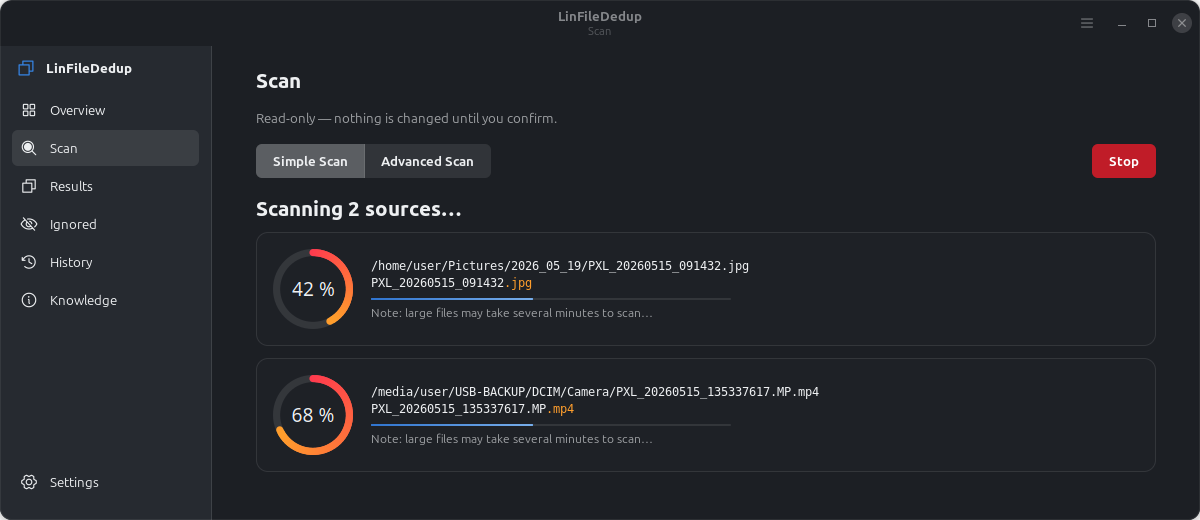
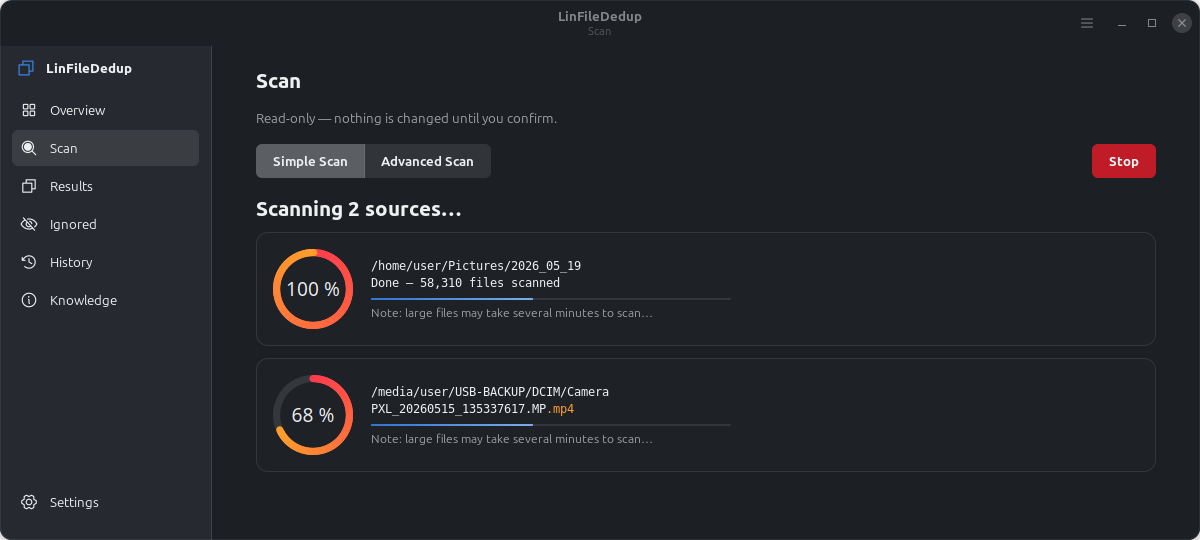
Docs: document the fingerprint cache logic, multi-source, History; show folder in ring path
- Scan rings: the path line now shows the FOLDER only (the file name, with
  its orange extension, is already on the line below the path).
- FEATURES.md: new §4b "Scan fingerprint cache" documenting the comparison
  key (path → {dev,ino,size,mtime,sha256}) and the hit/miss logic —
  no history ⇒ hash + record, changed ⇒ re-hash + update, unchanged ⇒ reuse
  — plus invalidation and safety; §5.7 multiple sources; §10 per-source ring
  list; §14 Scan History; Settings toggles; primary-source keeper note; test
  count. Refreshed the ring screenshot and the scan-page / scan-ring-list
  mockups to show the folder path.
- Test: new/changed files are hashed and the cache is updated; unchanged are
  reused (tests/core/test_hashcache.py). 71 passing.

diff --git a/docs/mockups/scan-page.html b/docs/mockups/scan-page.html
@@ -129,7 +129,7 @@
       <div class="row done">
         <div class="ring"><svg width="84" height="84" viewBox="0 0 84 84"><circle cx="42" cy="42" r="35" fill="none" stroke="rgba(255,255,255,.1)" stroke-width="7"/><circle cx="42" cy="42" r="35" fill="none" stroke="#34cd88" stroke-width="7" stroke-linecap="round" stroke-dasharray="220" stroke-dashoffset="0"/></svg><div class="pct">100<small>%</small></div></div>
         <div class="col">
-          <div class="path">/home/user/Pictures/2026_05_19/PXL_20260515_091432.jpg</div>
+          <div class="path">/home/user/Pictures/2026_05_19</div>
           <div class="name">Done — 58,310 files scanned</div>
           <div class="bar full"><i style="background:#2bbd78"></i></div>
           <div class="note">/home/user · complete</div>
@@ -139,7 +139,7 @@
       <div class="row">
         <div class="ring"><svg width="84" height="84" viewBox="0 0 84 84"><circle cx="42" cy="42" r="35" fill="none" stroke="rgba(255,255,255,.1)" stroke-width="7"/><circle cx="42" cy="42" r="35" fill="none" stroke="url(#grad)" stroke-width="7" stroke-linecap="round" stroke-dasharray="220" stroke-dashoffset="70"/></svg><div class="pct">68<small>%</small></div></div>
         <div class="col">
-          <div class="path">/media/user/USB-BACKUP/DCIM/Camera/PXL_20260515_135337617.MP.mp4</div>
+          <div class="path">/media/user/USB-BACKUP/DCIM/Camera</div>
           <div class="name">PXL_20260515_135337617.MP<span class="x">.mp4</span></div>
           <div class="bar slow"><i></i></div>
           <div class="note">Note: large files may take several minutes to scan…</div>
@@ -149,7 +149,7 @@
       <div class="row">
         <div class="ring"><svg width="84" height="84" viewBox="0 0 84 84"><circle cx="42" cy="42" r="35" fill="none" stroke="rgba(255,255,255,.1)" stroke-width="7"/><circle cx="42" cy="42" r="35" fill="none" stroke="url(#grad)" stroke-width="7" stroke-linecap="round" stroke-dasharray="220" stroke-dashoffset="180"/></svg><div class="pct">18<small>%</small></div></div>
         <div class="col">
-          <div class="path">/mnt/photos-external/2024/thumbs/IMG_0412.jpg</div>
+          <div class="path">/mnt/photos-external/2024/thumbs</div>
           <div class="name">IMG_0412<span class="x">.jpg</span></div>
           <div class="bar fast"><i></i></div>
           <div class="note">Note: large files may take several minutes to scan…</div>

diff --git a/docs/mockups/scan-ring-list.html b/docs/mockups/scan-ring-list.html
@@ -70,7 +70,7 @@
         <div class="pct">100<small>%</small></div>
       </div>
       <div class="col">
-        <div class="path">/home/user/Pictures/2026_05_19/PXL_20260515_091432.jpg</div>
+        <div class="path">/home/user/Pictures/2026_05_19</div>
         <div class="name">Done — 58,310 files scanned</div>
         <div class="bar"><i style="background:#2bbd78;width:100%;animation:none;position:static"></i></div>
         <div class="state">/home/user · complete</div>
@@ -87,7 +87,7 @@
         <div class="pct">68<small>%</small></div>
       </div>
       <div class="col">
-        <div class="path">/media/user/USB-BACKUP/DCIM/Camera/PXL_20260515_135337617.MP.mp4</div>
+        <div class="path">/media/user/USB-BACKUP/DCIM/Camera</div>
         <div class="name">PXL_20260515_135337617.MP.mp4</div>
         <div class="bar slow"><i></i></div>
         <div class="note">Note: large files may take several minutes to scan…</div>
@@ -104,7 +104,7 @@
         <div class="pct">18<small>%</small></div>
       </div>
       <div class="col">
-        <div class="path">/mnt/photos-external/2024/thumbs/IMG_0412.jpg</div>
+        <div class="path">/mnt/photos-external/2024/thumbs</div>
         <div class="name">IMG_0412.jpg</div>
         <div class="bar fast"><i></i></div>
         <div class="note">Note: large files may take several minutes to scan…</div>

diff --git a/tests/core/test_hashcache.py b/tests/core/test_hashcache.py
@@ -54,3 +54,36 @@ def test_second_scan_reuses_cache_and_skips_hashing(tmp_path, monkeypatch):
     groups = scanner.find_exact_groups(list(scanner.walk(opts)), opts, lambda e: None, cache=cache)
     assert calls["n"] == 0                        # reused the cache entirely
     assert len(groups) == 1 and groups[0].count == 2
+
+
+def test_new_files_hashed_and_changed_files_update_the_cache(tmp_path, monkeypatch):
+    import os
+    data = b"shared bytes " * 400
+    a = tmp_path / "a.dat"; a.write_bytes(data)
+    b = tmp_path / "b.dat"; b.write_bytes(data)          # a + b identical -> a candidate pair
+    opts = ScanOptions(root=str(tmp_path), find_images=False, min_size=1)
+    cache = HashCache(tmp_path / "hc.json")
+
+    n = {"h": 0}
+    real = hashers.full_hash
+    def spy(p):
+        n["h"] += 1
+        return real(p)
+    monkeypatch.setattr(hashers, "full_hash", spy)
+
+    # pass 1 — a, b have NO history: both are hashed and recorded
+    scanner.find_exact_groups(scanner.walk(opts), opts, lambda e: None, cache=cache)
+    assert n["h"] == 2 and len(cache) == 2
+
+    # b's mtime changes (edited), and c is a brand-new identical file
+    os.utime(b, (1_000_000_000, 1_000_000_000))
+    (tmp_path / "c.dat").write_bytes(data)
+    n["h"] = 0
+    scanner.find_exact_groups(scanner.walk(opts), opts, lambda e: None, cache=cache)
+    assert n["h"] == 2            # b (changed) + c (new) re-hashed; a (unchanged) reused
+    assert len(cache) == 3        # history updated: b's entry refreshed, c added
+
+    # pass 3 — everything is now unchanged: nothing is hashed
+    n["h"] = 0
+    scanner.find_exact_groups(scanner.walk(opts), opts, lambda e: None, cache=cache)
+    assert n["h"] == 0

diff --git a/src/linfilededuplication/ui/pages/scan.py b/src/linfilededuplication/ui/pages/scan.py
@@ -525,8 +525,8 @@ class ScanPage(BasePage):
         ring.set_progress(fraction, phase)
         bar.pulse()                         # a file event: quick motion for small files
         if detail:
-            path.set_text(detail)
             base = os.path.basename(detail)
+            path.set_text(os.path.dirname(detail) or detail)   # folder only; file name is shown below
             if base:
                 name.set_markup(self._name_markup(base))
             elif phase != "walk":

diff --git a/docs/FEATURES.md b/docs/FEATURES.md
@@ -36,20 +36,25 @@ confirmation; removals go to Trash by default (recoverable); protected paths are
 
 Cheap-to-expensive, so most files are rejected before any hashing:
 
-1. **Walk** (`walk()`) — recursive `os.scandir` honouring hidden/min-size/symlink options,
-   **scan exclusions**, the **file-type filter**, and the **ignore list**. Captures each file's
-   `(size, mtime, dev, ino)`. Streams the current folder/file back as throttled `Progress`
-   events (~15/sec) for the live scan caption.
+1. **Walk** (`walk()`) — recursive `os.scandir` over **every source** in `opts.all_roots()`,
+   honouring hidden/min-size/symlink options, **scan exclusions**, the **file-type filter**, and
+   the **ignore list**. Captures each file's `(size, mtime, dev, ino)` and tags its **`source`**
+   (the root it was found under). Returns one combined list so duplicates are found *across*
+   sources. Streams the current folder/file (with its source) as throttled `Progress` events
+   (~15/sec) for the live caption and the per-source rings.
 2. **Size pre-filter** — only sizes shared by ≥2 files continue.
 3. **Progressive prefix hash** (`hashers.prefix_hash`) — cheaply splits same-size buckets
    (xxHash when available, else BLAKE2b).
-4. **Full hash** (`hashers.full_hash`, SHA-256) — confirms identical content.
+4. **Full hash** (`hashers.full_hash`, SHA-256) — confirms identical content. Consults the
+   **hash cache** first (§4b): an unchanged file reuses its stored digest instead of being read.
 5. **Byte-for-byte verify** (optional, on by default) — rules out hash coincidence.
 6. **Inode collapse** — files sharing `(dev, ino)` are one physical file (already hard-linked),
    collapsed so they are never reported and never "reappear" on the next scan.
 
-A **DuplicateGroup** holds *any number* of identical files (2, 3, 50 …), not just pairs. One is
-the **keeper** (by policy); the rest are removal candidates.
+A **DuplicateGroup** holds *any number* of identical files (2, 3, 50 …), not just pairs, and its
+members may live on **different sources**. One is the **keeper** (by policy); the rest are removal
+candidates. **Identity is content, not name:** files are judged equal by size + SHA-256 (+ byte
+verify); the filename only influences *which* copy is kept (§4).
 
 **Memory:** `FileEntry` is `__slots__`-based (no per-instance `__dict__`) because the walk holds
 one per file — millions on a home tree (~265 bytes/entry). Validated: a full `/home` scan with
@@ -101,6 +106,65 @@ decides what to keep"** card on Results:
 **Backup detection** (`core/backup_detect.py`) flags probable backups from name/date/sibling
 signals and marks each group member **Newest** or **Older**.
 
+When scanning **multiple sources** with *Keep the primary source across drives* enabled (default),
+the keeper is biased to the **first-listed (primary) source**, so the copy removed is the one on
+the backup/removable drive. Disable it in Settings to use only the policy above.
+
+---
+
+## 4b. Scan fingerprint cache — the comparison history (`core/hashcache.py`)
+
+So that a **re-scan**, or a scan that **compares against a newly-added source**, does not re-read
+files it has already fingerprinted, LinFileDedup keeps a persistent **hash cache** (a scan
+history of file fingerprints). It is enabled by default (Settings → Scanning → *Reuse hashes for
+unchanged files*).
+
+### What is recorded, and the comparison key
+
+A tolerant JSON store at `~/.local/state/com.mensuramedia.linfilededuplication/hashcache.json`,
+mapping each file's **full path** to its fingerprint and digest:
+
+```
+<absolute path>  →  { dev, ino, size, mtime, sha256 }
+```
+
+- The **key is the full path** (which includes the source root, so the same relative file on two
+  sources is tracked separately).
+- The **fingerprint** is `dev` (filesystem id), `ino` (inode), `size` (bytes) and `mtime`
+  (modification time) — the fields that cheaply reveal whether a file changed.
+- The **`sha256`** is the content digest that the dedup comparison actually uses. (Filename is
+  *not* part of identity — identity is content; the cache simply avoids recomputing that content
+  hash.)
+
+### The "is another scan/hash necessary?" logic
+
+For each file that reaches the full-hash step, `HashCache.get(file)` decides:
+
+- **No history (new file).** The path is not in the cache → **miss** → the file is **hashed now**
+  and its fingerprint + digest are **recorded** (`put`). New files and newly-added sources are
+  always scanned.
+- **Changed file.** The path is cached, but `size`/`mtime`/`dev`/`ino` **differ** from the stored
+  fingerprint → **miss** → the file is **re-hashed** and its cache entry is **updated** with the
+  new fingerprint + digest.
+- **Unchanged file.** The path is cached and `size`/`mtime`/`dev`/`ino` **all match** → **hit** →
+  the stored `sha256` is **reused** and the file is **not read again**.
+
+So the cache self-updates on every scan: unchanged files are skipped, while **new and changed
+files discovered are hashed and written back**, keeping the history current for the next
+comparison. (Validated by `tests/core/test_hashcache.py`: a second scan of unchanged files does
+zero re-hashing; a scan after editing one file and adding another re-hashes exactly those two.)
+
+### Maintenance & safety
+
+- **After a dedup operation**, the removed/relinked files are dropped from the cache
+  (`HashCache.remove`, called from the Results actions) so the history stays truthful.
+- The file is **capped** (most-recent entries kept) and only tracks files that reach the full-hash
+  step (collision candidates), so it stays small.
+- **Safety:** the cache only ever avoids recomputing a hash that would have been identical — it
+  never changes which files are judged equal, and the **byte-for-byte verification** still runs on
+  final groups. The one heuristic is `mtime`: a tool that edits a file while preserving its mtime
+  is the single case the fast path would miss, which the byte-verify still catches.
+
 ---
 
 ## 5. Scan scope controls (Scan page)
@@ -147,6 +211,14 @@ Both are managed on the **Ignored page** (§13), where any entry can be resumed.
 Per-group **Ignore Folder** button (+ InfoHint): ignores the folders the group's files live in,
 persists them to `settings.ignored_folders`, and greys the matching rows. Managed on the Ignored
 page (§13).
+
+### 5.7 Multiple sources (`ScanOptions.roots`)
+The Scan page's **Sources to scan** list replaces the single folder: add folders with **Add
+source…** (chooser) or drives with **Add drive…** (detected mountpoints via `Gio.VolumeMonitor`),
+each shown with its type/size and a **Remove**. All sources are scanned as **one pool**, so a copy
+on a backup drive and the original on your disk form one group. The selection persists in
+`settings.roots`; `all_roots()` is the effective list (`roots` wins, else the legacy `root`).
+Cross-filesystem **hard-link is impossible**, so those groups route to Trash automatically.
 
 ---
 
@@ -262,14 +334,22 @@ the UI decides how to render, keeping `core/` GTK-free.
 
 ## 10. Live scan feedback
 
-- **Percentage ring loader** (`ui/widgets/ring_loader.py`) — a Cairo circular loader (dark track,
-  red→orange gradient arc, centred **"NN %"**) shown below the Results title while scanning. The
-  percentage is the **true overall ratio of files scanned**, not a cosmetic animation: the scanner
-  reports progress over *all* files — a file with a unique size needs no hashing and counts as done
-  immediately, each hashed candidate and each perceptually-hashed image advances the count, and
-  total work = total files + the image pass. The value eases between updates and is monotonic
-  (never exceeds 100%). Because the walk discovers files (total unknown until it finishes), the
-  walk phase shows a small indeterminate creep (≤ 8%) until real per-file work begins.
+- **Per-source ring list** (Scan page) — the app **stays on Scan during a scan** and shows **one
+  row per source**: a **ring** on the left (slightly reduced, its **percentage centred** on the
+  glyphs) showing that source's **true files-scanned ratio**; on the right the **folder** of the
+  current file, then the **file name** on its own line (same monospace font/size as the folder
+  path, **extension in orange** — not repeated in the path above it), a **2px blue-gradient
+  half-width activity bar** that pulses — *fast* for small files,
+  a *slow crawl* on a large file (and a steady fallback pulse), so a multi-minute hash never looks
+  hung — and a **"Note: large files may take several minutes to scan…"** line. All rings **stay
+  visible until the whole scan completes, then fade together**, and the app switches to Results.
+- **Percentage ring loader** (`ui/widgets/ring_loader.py`) — the same Cairo circular loader (dark
+  track, red→orange gradient arc, centred **"NN %"**) also backs the **overall** ring on Results.
+  The percentage is the **true overall ratio of files scanned**, not a cosmetic animation: the
+  scanner reports progress over *all* files — a file with a unique size needs no hashing and counts
+  as done immediately, each hashed candidate and each perceptually-hashed image advances the count,
+  and total work = total files + the image pass. Monotonic; the walk phase shows a small
+  indeterminate creep (≤ 8%) until real per-file work begins.
 - **Reveal on completion** — groups found during the scan are **buffered**, not shown live. When the
   scan finishes the ring fills to **100%**, holds, and **fades out**, and only then are the result
   cards, savings panel, formula card and action bar built and revealed
@@ -284,8 +364,11 @@ the UI decides how to render, keeping `core/` GTK-free.
 
 - **Theme** (`ui/theme_loader.py`) — injects the approved mockup palette (content darker than
   sidebar, lighter top bar) as `@define-color` overrides for light and dark, following the system.
-- **Settings** — tier, folder, image toggle, hidden, min size, hamming, default action, backups,
-  exclusions, **file types**, **ignored paths**.
+- **Settings** — theme; image-similarity threshold; a **Scanning** group with *Reuse hashes for
+  unchanged files* (`use_hash_cache`, §4b) and *Keep the primary source across drives*
+  (`keep_primary_source`, §4); default action; dry-run; backups; and the scan-scope exclusion
+  presets. Persisted as tolerant JSON by `config/settings.py` (also stores `roots`, `file_types`,
+  `custom_extensions`, `ignored_paths`, `ignored_folders`).
 - **Logging** (`logsetup.py`) — rotating file log at
   `~/.local/state/com.mensuramedia.linfilededuplication/linfilededuplication.log`: startup banner,
   lifecycle, scan start/finish, destructive-action outcomes, plus GLib/GTK capture and a Python
@@ -317,13 +400,31 @@ A dedicated sidebar page (eye-slash icon) that tracks everything the user chose 
 
 ---
 
-## 14. Tests (`tests/`)
+## 14. Scan History (`config/history.py`, `ui/pages/history.py`)
 
-Pure-core tests run anywhere; UI smoke needs a display. Current suite: **56 passing**. Coverage
-includes purity, hashers, scanner (incl. inode-collapse, walk streaming, file-type & ignore
-filters, `occupied_bytes`), policy, backup detection, exclusions, chunking, metadata, glossary,
-preview (incl. video classification), file-type categories, perceptual precision/recall + the
-smooth-image dual-hash guard, `FileEntry` slots, and the full hard-link action matrix.
+Every **confirmed removal** (Move to Trash / Delete All Duplicates / Hard-link), success or
+failure, is recorded as a `HistoryEntry` `{ when, sources, action, ok, error, before_bytes,
+freed_bytes, files_removed, groups }` in a tolerant JSON store at
+`~/.local/state/com.mensuramedia.linfilededuplication/history.json` (newest-first, capped). The
+**History page** shows the **last operation prominently** — date, the **sources** scanned, a
+**before/after bar pair** (reusing `SpaceChart`), a **"You saved N GB"** headline, and a
+success/failure chip — with **earlier operations** listed below. `before_bytes` is the scan's
+`Finished.occupied_bytes`; `freed_bytes` is what the action actually reclaimed;
+`after_bytes = before − freed`.
+
+---
+
+## 15. Tests (`tests/`)
+
+Pure-core tests run anywhere; UI smoke needs a display. Current suite: **71 passing**. Coverage
+includes purity, hashers, scanner (incl. inode-collapse, walk streaming, **multi-source walk +
+source tagging**, **cross-source duplicate grouping**, **per-source progress**, file-type & ignore
+filters, `occupied_bytes`, **keep-primary-source toggle**), the **hash cache** (hit only when
+unchanged; new files hashed + recorded; changed files re-hashed + cache updated; second scan does
+zero re-hashing; remove-on-delete), the **history store** (round-trip, newest-first, cap), policy,
+backup detection, exclusions, chunking, metadata, glossary, preview (incl. video classification),
+file-type categories, perceptual precision/recall + the smooth-image dual-hash guard, `FileEntry`
+slots, and the full hard-link action matrix.
 
 Run: `pytest -q` · lint: `ruff check src tests` · headless build check:
 `python3 -m linfilededuplication --smoke`.
